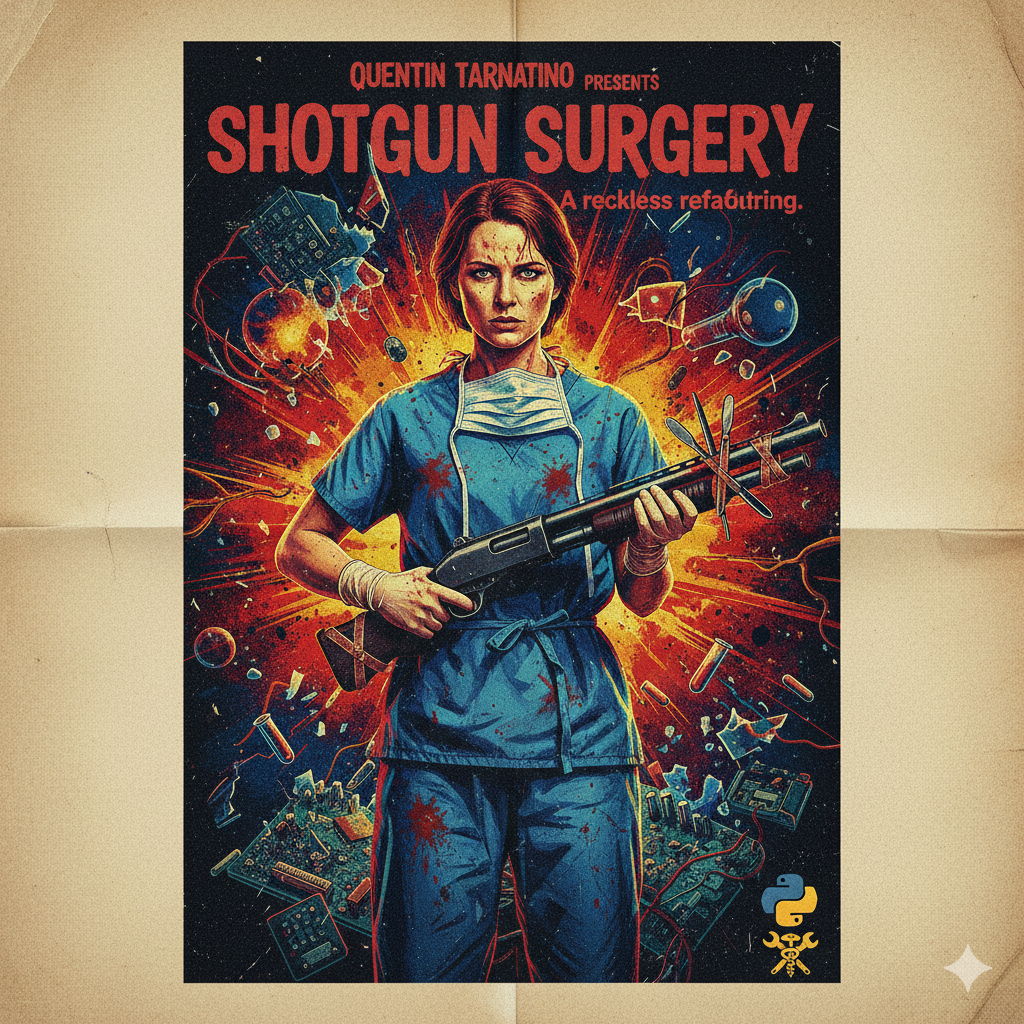
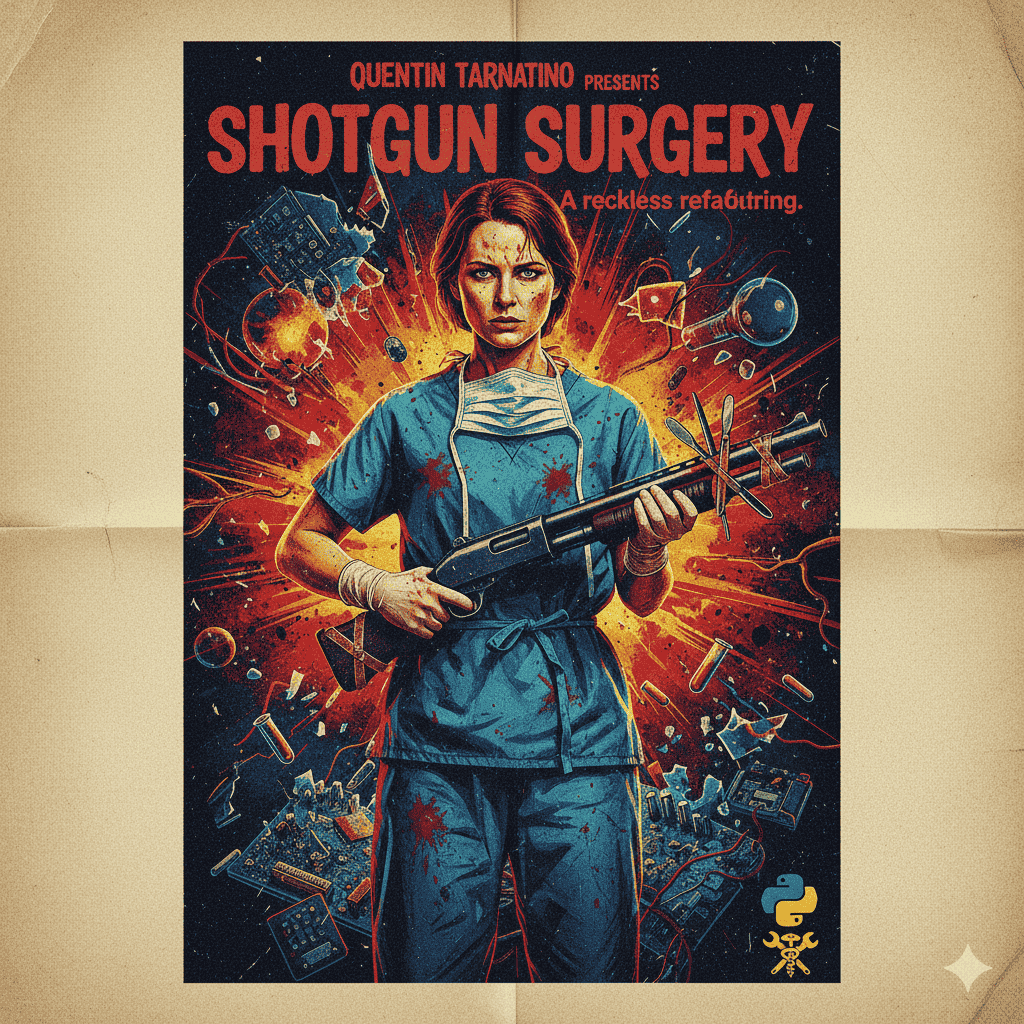
clean up

diff --git a/presentaciones/pyday_hurlingham_2025/slides.md b/presentaciones/pyday_hurlingham_2025/slides.md
@@ -1396,7 +1396,39 @@ for libro in libros:
 
 --
 
+NOTES:
+Acá tengo que detallar que la charla de Sandi sigue con un ejemplo largo y que 
+es ultra recomendable seguirlo
+
+--
+
+NOTES:
+Pero vamos a detallar la Abstracción 
+
+--
+
+![](./images/taza.png)
+
+--
+
+![](./images/zen-python.png)
+
+--
+
+<!-- .slide: id="filosofia-nada" -->
+
+### El Principio de la Utilidad del Vacío
+
+**Tao Te Ching:**
+> "Trabajamos con el ser, pero el no-ser es lo que usamos."
+<!-- .element: class="fragment" -->
+
+NOTES:
+La abstracción se esconde en el espacio vacío (la ausencia de if)
+
 ---
+
+--
 
 <!-- .slide: id="monoides" -->
 
@@ -1421,145 +1453,11 @@ for libro in libros:
 
 ---
 
-<!-- .slide: id="tema3-composicion" -->
-
-# TEMA 3: COMPOSICIÓN
-
-## (7 minutos)
-
----
-
-<!-- .slide: id="solucion-composicion" -->
-
-## Solución 3: Composición
-
-### Evitando la Trampa de la Herencia
-
----
-
-<!-- .slide: id="trampa-herencia" -->
-
-## La Trampa de la Herencia
-
-### "Es un" (is-a) vs. "Tiene un" (has-a)
-
-* La herencia es solo para la **especialización**
-* Usarla para reúso de código causa **Explosión Combinatoria**
-
----
-
-<!-- .slide: id="pensamiento-correcto" -->
-
-## El Pensamiento Correcto
-
-### De "¿Qué ES este objeto?" a "¿Qué ROL juega?"
-
-* Debemos aislar la variación y nombrar la abstracción
-
----
-
-<!-- .slide: id="rol-inyeccion" -->
-
-## El Rol y la Inyección
-
-### Composición con Dependency Injection (DI)
-
-**Principio:** El objeto principal depende de (usa) Roles que se le entregan en el constructor
-
----
-
-<!-- .slide: id="codigo-con-roles" -->
-
-## Código con Roles
-
-```python
-class Notificador:
-    def __init__(self, metodo_alerta):
-        self.alerta = metodo_alerta
-
-    def enviar(self):
-        self.alerta.ejecutar()
-
-# La variación vive en 'metodo_alerta'
-# (Email, SMS, Slack), no en 'Notificador'.
-```
-
----
-
-<!-- .slide: id="victoria-composicion" -->
-
-## La Victoria de la Composición
-
-### ¡Puedes combinar cualquier Rol con cualquier Entidad!
-
-* El código es más flexible
-* Más fácil de probar
-* Más mantenible
-
----
-
-<!-- .slide: id="cierre" -->
-
-# CIERRE Y CALL TO ACTION
-
-## (7 minutos)
-
----
-
-<!-- .slide: id="filosofia-nada" -->
-
-## La Filosofía de la Nada
-
-### El Principio de la Utilidad del Vacío
-
-**Tao Te Ching:**
-> "Trabajamos con el ser, pero el no-ser es lo que usamos."
-
-La abstracción se esconde en el espacio vacío (la ausencia de if)
-
----
-
-<!-- .slide: id="resumen" -->
-
-## Resumen Final
-
-### Tres Pasos para el Código Limpio
-
-1. **Encuentra la Nada:** Identifica la lógica condicional
-2. **Nómbrala:** Crea el Rol (la abstracción)
-3. **Hazla un Objeto:** Implementa el Null Object o usa la Composición
-
----
-
 <!-- .slide: id="preguntas" -->
 
 ## ¡Preguntas!
 
 **[Tu Contacto Principal / Twitter]**
-
----
-
-<!-- .slide: id="consultoria" -->
-
-## Servicios de Consultoría
-
-### ¿Tu código sufre de if y acoplamiento?
-
-* **Refactorización Estratégica:** Transformación de monolitos
-* **Diseño Orientado a Objetos:** Aplicación de patrones avanzados
-* **Auditoría de Código:** Identificación y corrección de fragilidad
-
----
-
-<!-- .slide: id="tutorias" -->
-
-## Tutorías y Mentoring
-
-### Invierte en tu futuro como desarrollador senior
-
-* Clases personalizadas de Python avanzado
-* Sesiones de TDD y Pruebas Unitarias
-* Formación en Arquitectura de Software
 
 ---
 
